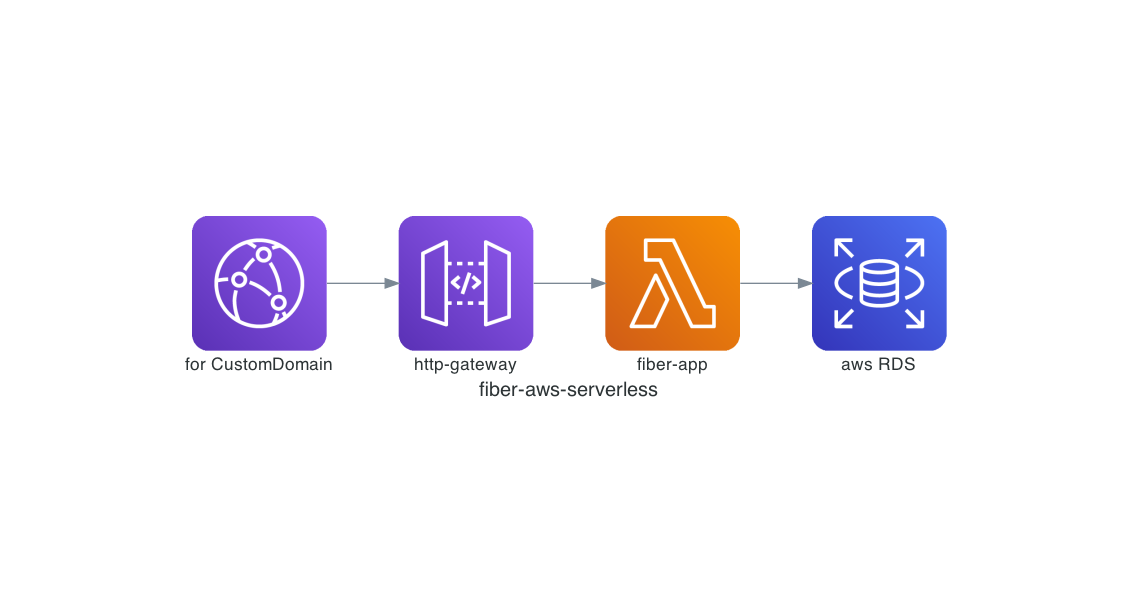
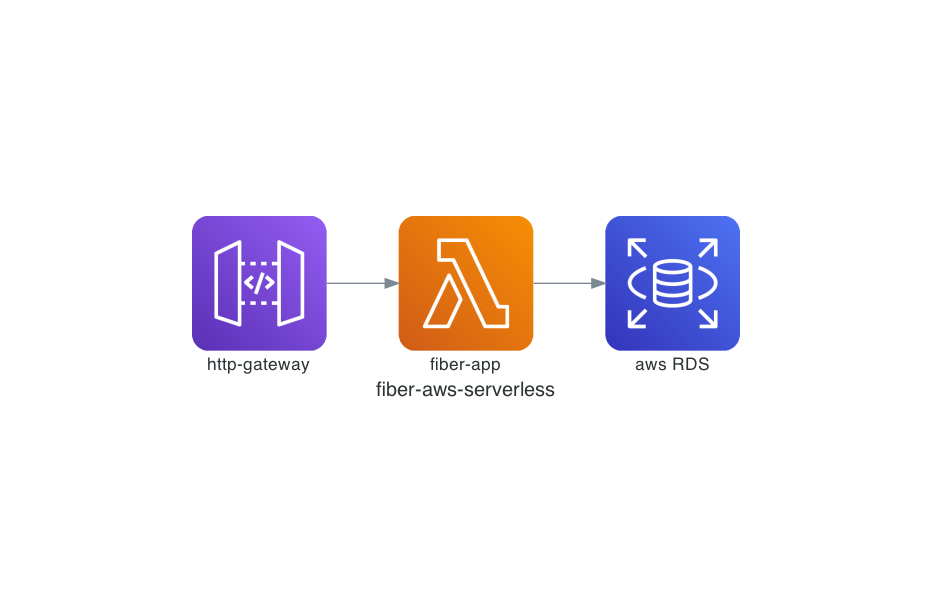
deploy serverless http service

Changed region(s): [[0.1556, 0.36, 0.8401, 0.66]]

diff --git a/lambda/main.go b/lambda/main.go
@@ -1,0 +1,27 @@
+package main
+
+import (
+	"github.com/aws/aws-lambda-go/lambda"
+	adapter "github.com/awslabs/aws-lambda-go-api-proxy/fiber"
+	"github.com/rs/zerolog/log"
+
+	"github.com/drakejin/fiber-aws-serverless/config"
+	"github.com/drakejin/fiber-aws-serverless/internal/app"
+	"github.com/drakejin/fiber-aws-serverless/internal/container"
+)
+
+func main() {
+	cfg, err := config.New(true)
+	if err != nil {
+		log.Fatal().Err(err).Send()
+	}
+
+	cont, err := container.New(cfg)
+	if err != nil {
+		log.Fatal().Err(err).Send()
+	}
+
+	appHttp := app.NewHTTP(cont)
+	lambdaApp := adapter.New(appHttp)
+	lambda.Start(lambdaApp.ProxyWithContext)
+}

diff --git a/docs/aws_diagram.py b/docs/aws_diagram.py
@@ -1,8 +1,7 @@
 from diagrams import Diagram
-from diagrams.aws.network import CF
 from diagrams.aws.network import APIGateway
 from diagrams.aws.compute import Lambda
 from diagrams.aws.database import RDS
 
 with Diagram("fiber-aws-serverless", filename="./docs/aws_diagram",  show=False):
-    CF("for CustomDomain") >> APIGateway("http-gateway") >> Lambda("fiber-app") >> RDS("aws RDS")
+    APIGateway("http-gateway") >> Lambda("fiber-app") >> RDS("aws RDS")

diff --git a/main.go b/main.go
@@ -1,8 +1,6 @@
 package main
 
 import (
-	"os"
-
 	"github.com/rs/zerolog/log"
 
 	"github.com/drakejin/fiber-aws-serverless/cmd"
@@ -11,9 +9,6 @@ import (
 
 func main() {
 	var isServerless = false
-	if os.Getenv("FIBER_ENV") == "serverless" {
-		isServerless = true
-	}
 	cfg, err := config.New(isServerless)
 	if err != nil {
 		log.Fatal().Err(err).Send()

diff --git a/README.md b/README.md
@@ -17,13 +17,17 @@ this is fiber aws serverless example source code. it uses a [serverless framewor
 
 ``` text
 📦fiber-aws-serverless 
- ┣ 📂client
- ┣ 📂node_modules
- ┣ 📂server
- ┃ ┗ 📜index.js
- ┣ 📜.gitignore
- ┣ 📜package-lock.json
- ┗ 📜package.json
+ ┣ 📂cmd
+ ┣ 📂config
+ ┣ 📂db
+ ┣ 📂docs
+ ┣ 📂model
+ ┣ 📂lambda
+ ┣ 📂internal
+ ┃ ┗ 📜main.go      # for serverless main.go
+ ┣ 📜main.go        # for dockerize or cli
+ ┣ 📜.enc           # It's important, It must have secrets.
+ ┣ 📜serverless.yml # it's deploy tool for aws serverless lambda for http
 ```
 
 #### aws architecture
@@ -31,23 +35,39 @@ this is fiber aws serverless example source code. it uses a [serverless framewor
 ![aws architecture](./docs/aws_diagram.png)
 
 
-
 # Getting Start
 
 ### requirements
 
 ``` bash
-npm install -g serverless
+npm install -g serverless serverless-dotenv-plugin
 ```
 
+### useful commands
 
 ``` bash
 # start server at local
-go run main.go start
+go run main.go http start
+
+# initialize DB
+go run main.go gorm init
 
 # deploy
 make deploy
+
+# generate docs
+make docs
+
+# tail cloudwatchlogs realtime
+aws logs tail ${cloudwatch-log-group} --follow
+
 ```
+
+# API test
+
+see [docs/todo.http](./docs/todo.http)
+
+
 
 # references
 - documentation tools: [mingrammers/diagrams](https://github.com/mingrammer/diagrams)
